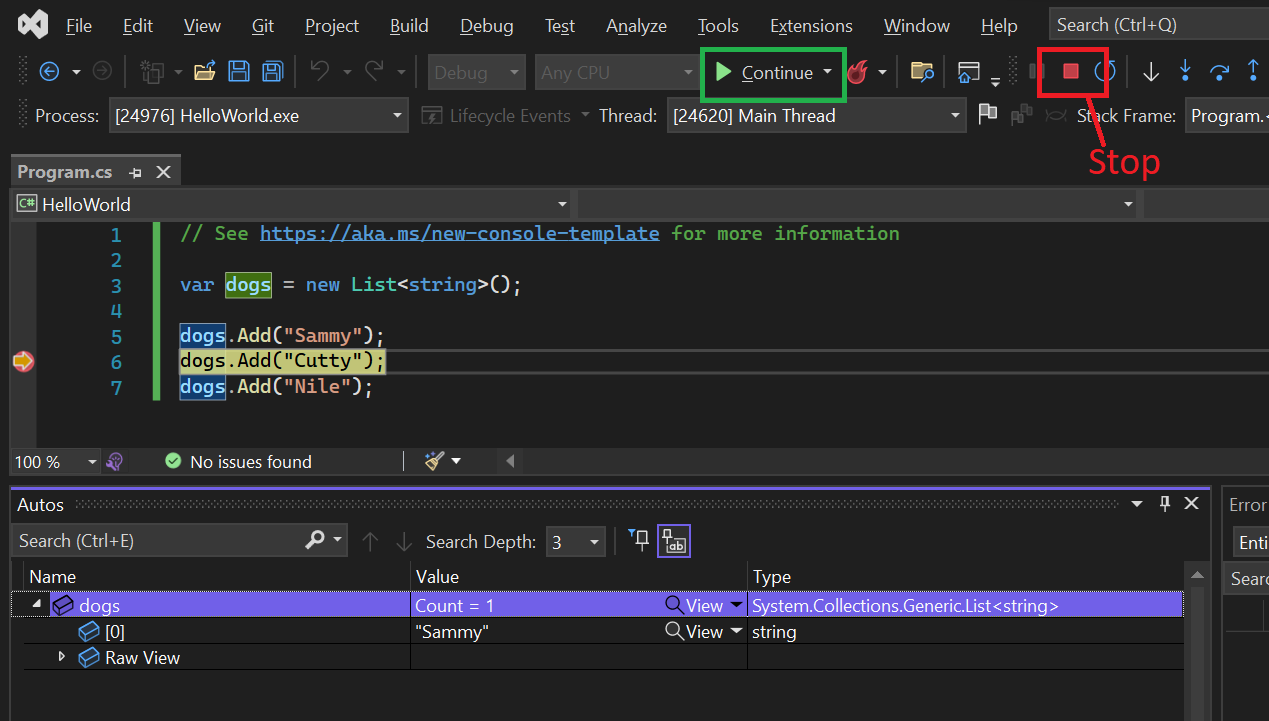
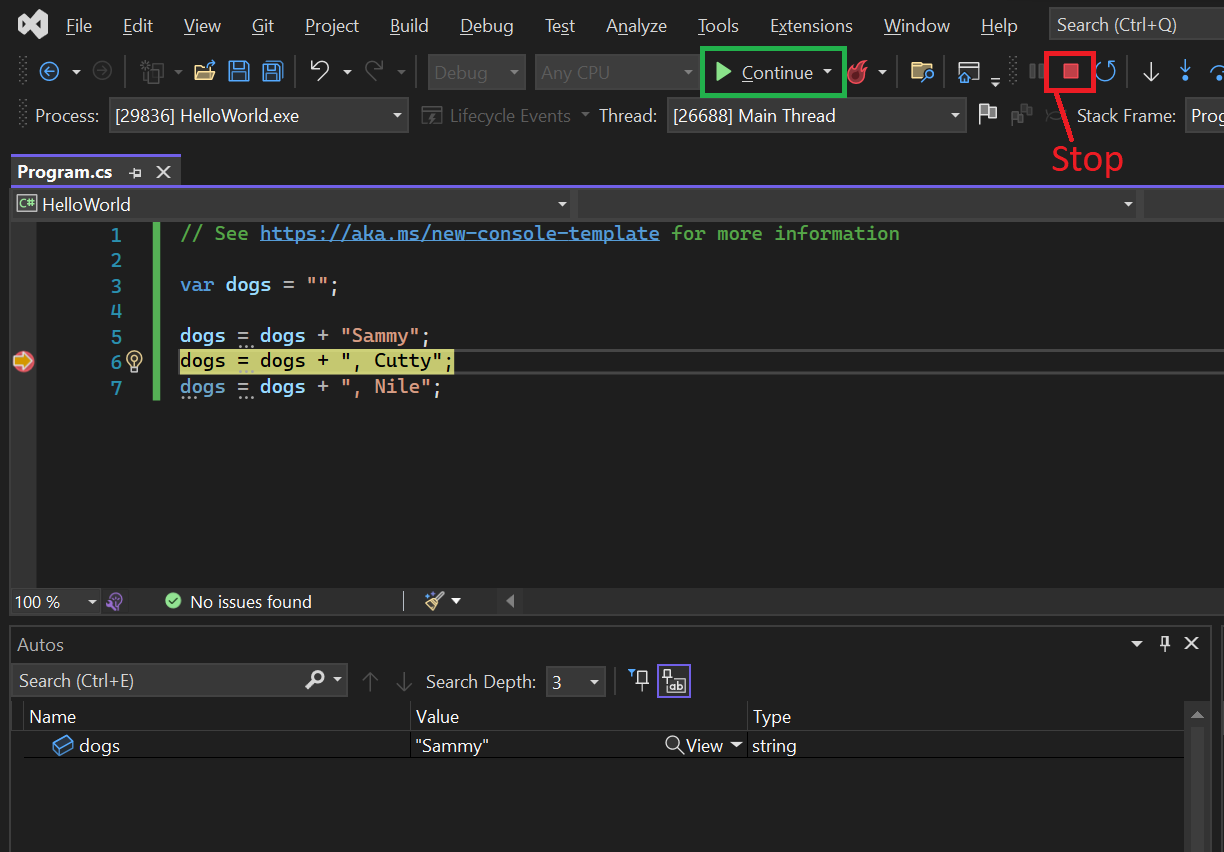
update ide & debugging

diff --git a/lessons/mod1/IDEandDebugging.md b/lessons/mod1/IDEandDebugging.md
@@ -152,9 +152,9 @@ Now that there is a breakpoint placed on line 6, when we run the program, it wil
 
 Here, we can see that we are **paused** on line 6 (indicated by the orange arrow).
 
-When we look at the output panel, we can see our variable `dogs`, and expand into the details of that value.
+When we look at the output panel, we can see our variable `dogs` and the value it holds.
 
-> With a partner, discuss why we only see `"Sammy"` in the list.  Why are "Cutty" and "Nile" not in there?
+> With a partner, discuss why we only see `"Sammy"` in the string.  Why are "Cutty" and "Nile" not in there?
 
 ** Instructor Note ** we want students to understand that the breakpoint will pause the program *before* the line its on is executed.
 
@@ -193,9 +193,20 @@ In this example, part of the code before the next breakpoint includes a `ReadLin
 
 ![](/images/Mod1/ideanddebugging/BreakpointsInLoop.png)
 
+** Instructor Note ** Reiterate that breakpoints will cause a pause on a line _every_ time it is executed.  So, in a loop, we will have a break point on each iteration (not just the first one).
 
 ## Checks for Understanding
 * What is an IDE?
 * What are some benefits to using an IDE?
 * In your own words, describe how we use breakpoints to debug.
 * How do you add a breakpoint? How do you remove one or more breakpoints?
+* If we wanted to confirm the value of 'products' in the code below, what line would we put a breakpoint on?
+```
+1  string var products = "book, tv, iPad";
+2
+3  Console.WriteLine($"Current Inventory: {products}");
+4
+5  products = products + ", ear buds";
+6
+7  Console.WriteLine($"Current Inventory: {products});
+```
